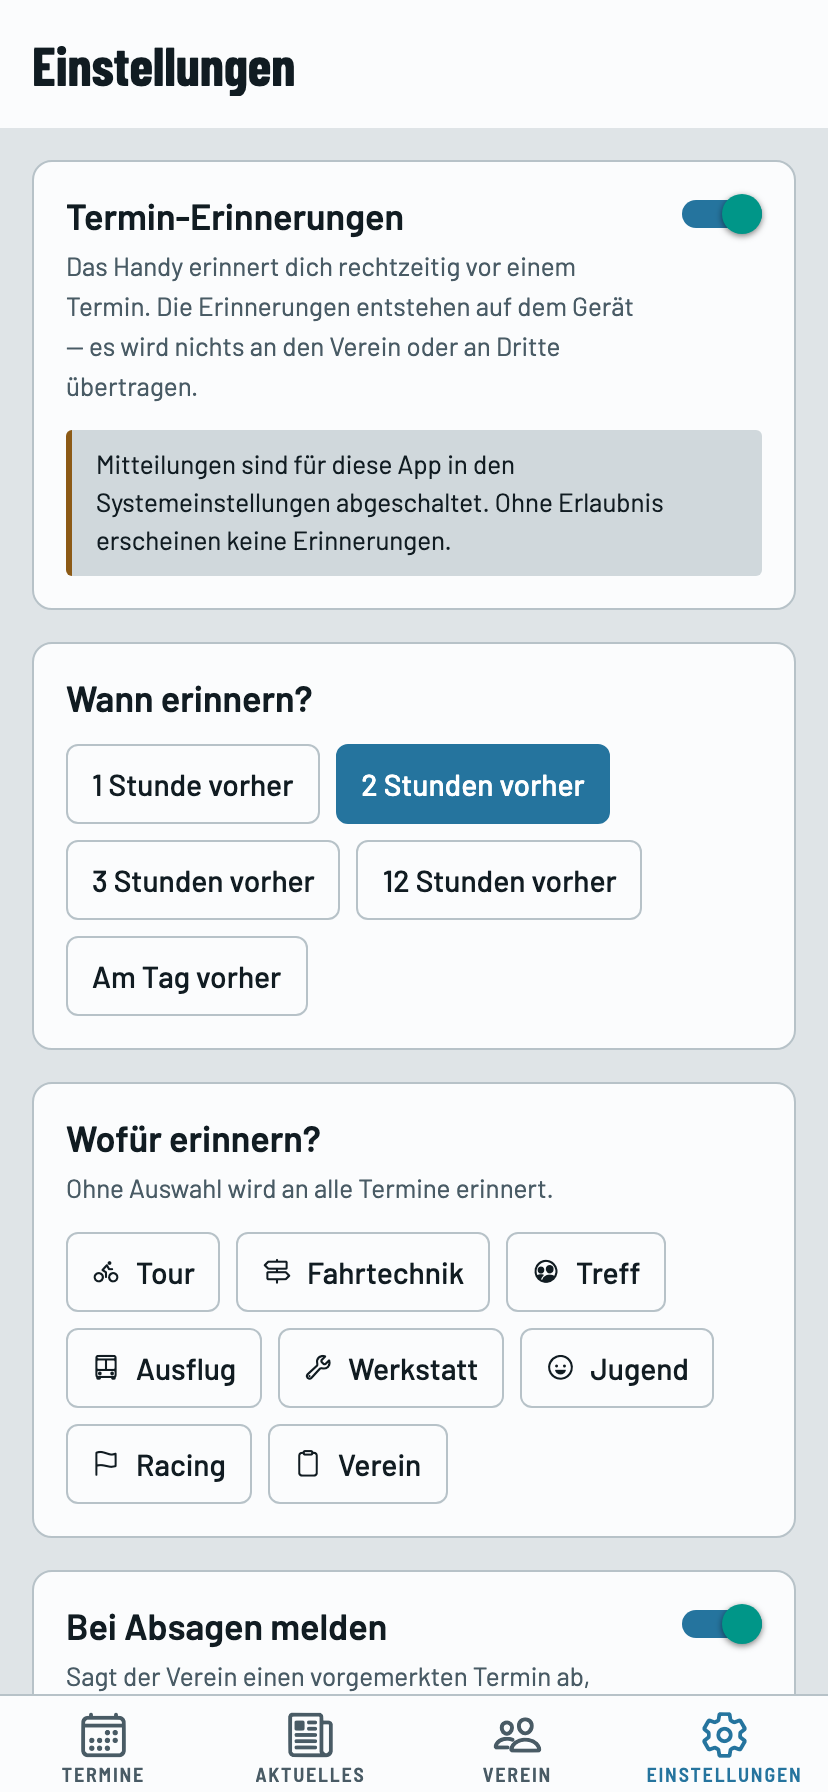
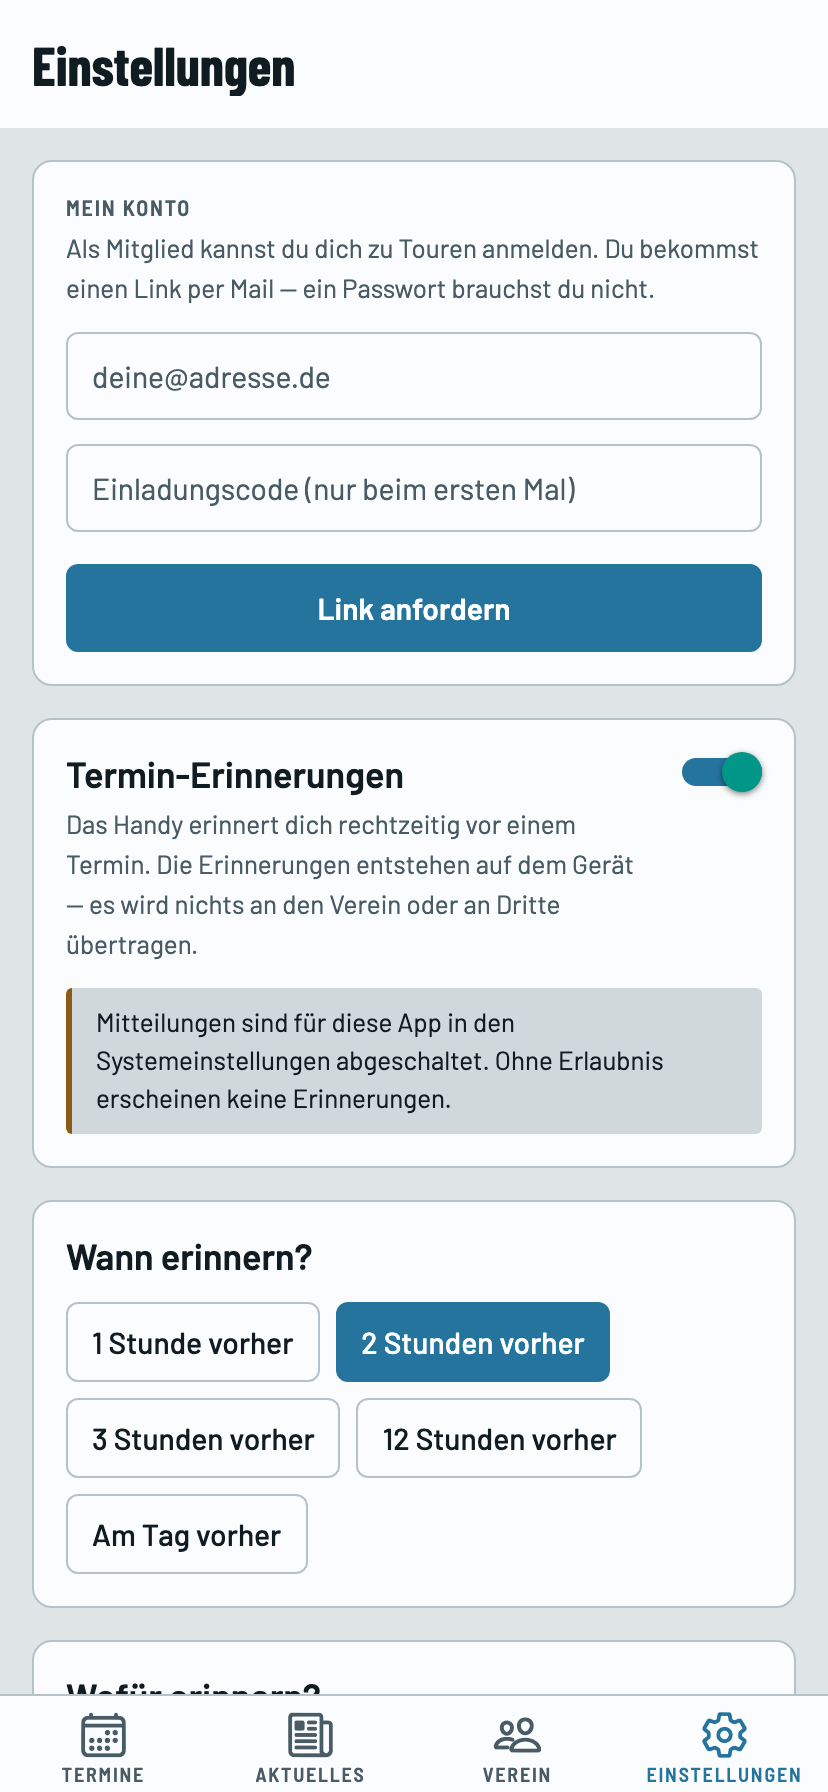
Anmeldebereich in den Einstellungen
Die Anmeldekarte sitzt oben auf dem Einstellungsbildschirm, über den
Erinnerungen. Adresse eingeben, Einladungscode nur beim ersten Mal, Link
per Mail — kein Passwort. Wer sich nie anmeldet, sieht die App wie bisher;
die Karte drängt sich nicht auf und blockiert nichts.

Zwei Fehlerquellen laufen in einer Bannerzeile zusammen: der eigene
Formularfehler und `einloesenFehlgeschlagen` aus dem Kontext. Der eigene
hat Vorrang, weil er auf die Handlung von gerade eben antwortet.

Zwei Funde beim Prüfen, beide gegen die laufende API und die Vorschau
nachgemessen statt vermutet:

1. Der Beispielcode des Plans meinte, ein Fehler beim Anfordern heiße immer
   „Server nicht erreichbar" — die API antworte ja bei jeder Anfrage gleich.
   Das gilt nur für *gültige* Anfragen. Gemessen:

       {"email":""}              → 400 "E-Mail-Adresse fehlt oder ist ungültig."
       {"email":"keine-adresse"} → 400 "E-Mail-Adresse fehlt oder ist ungültig."

   Wer sich vertippt, wäre zum Warten geschickt worden statt zum
   Korrigieren. Ein falscher Rat ist schlimmer als gar keiner. Die
   Zuordnung steht jetzt als reine Rechenlogik in `anfordernFehler.ts` mit
   eigenen Tests, nach Fällen sortiert, die Verschiedenes von der Person
   verlangen: 400 reicht den präziseren Satz der API durch, 429 sagt, dass
   Warten hilft und Weiterprobieren schadet, alles andere ist vorübergehend.

2. `npm run vorschau` meldete `getValueWithKeyAsync is not a function` —
[…]

diff --git a/src/features/konto/AnmeldeKarte.tsx b/src/features/konto/AnmeldeKarte.tsx
@@ -1,0 +1,188 @@
+/**
+ * Der Anmeldebereich in den Einstellungen.
+ *
+ * Bewusst hier und nicht an der Terminansicht: Wer sich nie anmeldet, soll
+ * die App benutzen wie bisher. Die Anmeldung ist ein Zusatz für Mitglieder,
+ * keine Hürde vor dem Kalender.
+ *
+ * Kein Passwort: Die API schickt einen Link an die hinterlegte Adresse. Der
+ * Einladungscode ist nur beim ersten Mal nötig — wer schon ein Konto hat,
+ * gibt bloß seine Adresse ein.
+ *
+ * Zwei Fehlerquellen laufen hier zusammen, aber es gibt nur eine Banner-
+ * Zeile: der eigene Formularfehler (Anfordern schlug fehl) und
+ * `einloesenFehlgeschlagen` aus dem Kontext (der zuletzt angetippte Link
+ * ließ sich nicht einlösen). Ohne Letzteres passierte nach dem Antippen
+ * eines abgelaufenen Links schlicht gar nichts — die Karte blieb einfach
+ * bei „Schau in dein Postfach" stehen.
+ */
+
+import { useRef, useState } from 'react';
+import { StyleSheet, Text, TextInput, View } from 'react-native';
+
+import { beschreibeAnfordernFehler } from '../../konto/anfordernFehler';
+import { useKonto } from '../../konto/KontoContext';
+import { font, fontSize, radius, spacing } from '../../theme';
+import { ActionButton, Banner, Card, Label } from '../../ui/components';
+import { useTheme } from '../../ui/theme';
+
+export function AnmeldeKarte() {
+  const { palette } = useTheme();
+  const { angemeldet, laedt, anmeldungAnfordern, abmelden, zuletztEingeloest, einloesenFehlgeschlagen } =
+    useKonto();
+
+  const [email, setEmail] = useState('');
+  const [code, setCode] = useState('');
+  const [laeuft, setLaeuft] = useState(false);
+  const [angefordert, setAngefordert] = useState(false);
+  const [fehler, setFehler] = useState<string | null>(null);
+
+  // Der Stand von `zuletztEingeloest` beim ersten Einhängen der Karte.
+  // `useRef` merkt sich nur den allerersten Aufrufwert — ändert sich
+  // `zuletztEingeloest` danach, wurde genau während dieser Sitzung der Karte
+  // ein Link eingelöst, und die kurze Bestätigung unten ist angebracht. War
+  // die Anmeldung schon vorher da (Einstellungen frisch geöffnet, längst
+  // angemeldet), bleibt es bei der ruhigen Standardmeldung.
+  const anfangswert = useRef(zuletztEingeloest).current;
+  const geradeEingeloggt = zuletztEingeloest !== null && zuletztEingeloest !== anfangswert;
+
+  if (laedt) return null;
+
+  if (angemeldet) {
+    return (
+      <Card>
+        <Label>Mein Konto</Label>
+        <Text style={[styles.zustand, { color: palette.text }]}>
+          {geradeEingeloggt ? 'Angemeldet.' : 'Du bist angemeldet.'}
+        </Text>
+        <Text style={[styles.hinweis, { color: palette.textMuted }]}>
+          Damit kannst du dich in der Terminansicht zu Touren an- und abmelden.
+        </Text>
+        <View style={styles.knopf}>
+          <ActionButton label="Abmelden" tone="secondary" onPress={() => void abmelden()} />
+        </View>
+      </Card>
+    );
+  }
+
+  async function anfordern() {
+    setFehler(null);
+    setLaeuft(true);
+    try {
+      await anmeldungAnfordern(email.trim(), code.trim() || undefined);
+      setAngefordert(true);
+    } catch (ursache) {
+      // Nicht pauschal „nicht erreichbar": Die API antwortet zwar bei jeder
+      // *gültigen* Anfrage gleich, weist eine ungültige Adresse aber mit 400
+      // und einem eigenen Satz ab. Wer sich vertippt, würde sonst zum Warten
+      // geschickt statt zum Korrigieren. Siehe `anfordernFehler.ts`.
+      setFehler(beschreibeAnfordernFehler(ursache));
+    } finally {
+      setLaeuft(false);
+    }
+  }
+
+  // Der eigene Formularfehler antwortet auf die Handlung von gerade eben und
+  // hat deshalb Vorrang vor einem möglicherweise älteren, fehlgeschlagenen
+  // Einlöseversuch. Nie beide gleichzeitig zeigen.
+  const anzeigeFehler = fehler ?? einloesenFehlgeschlagen;
+
+  return (
+    <Card>
+      <Label>Mein Konto</Label>
+
+      {anzeigeFehler ? (
+        <View style={styles.banner}>
+          <Banner tone="danger" text={anzeigeFehler} />
+        </View>
+      ) : null}
+
+      {angefordert ? (
+        <>
+          <Text style={[styles.zustand, { color: palette.text }]}>Schau in dein Postfach.</Text>
+          <Text style={[styles.hinweis, { color: palette.textMuted }]}>
+            Wenn die Angaben stimmen, ist eine Mail an {email.trim()} unterwegs. Tipp den Link
+            darin an — er gilt 15 Minuten.
+          </Text>
+          <View style={styles.knopf}>
+            <ActionButton
+              label="Nochmal versuchen"
+              tone="secondary"
+              onPress={() => setAngefordert(false)}
+            />
+          </View>
+        </>
+      ) : (
+        <>
+          <Text style={[styles.hinweis, { color: palette.textMuted }]}>
+            Als Mitglied kannst du dich zu Touren anmelden. Du bekommst einen Link per Mail —
+            ein Passwort brauchst du nicht.
+          </Text>
+
+          <TextInput
+            value={email}
+            onChangeText={setEmail}
+            placeholder="deine@adresse.de"
+            placeholderTextColor={palette.textMuted}
+            autoCapitalize="none"
+            autoCorrect={false}
+            keyboardType="email-address"
+            style={[
+              styles.feld,
+              { color: palette.text, borderColor: palette.border, backgroundColor: palette.surface },
+            ]}
+          />
+
+          <TextInput
+            value={code}
+            onChangeText={setCode}
+            placeholder="Einladungscode (nur beim ersten Mal)"
+            placeholderTextColor={palette.textMuted}
+            autoCapitalize="none"
+            autoCorrect={false}
+            style={[
+              styles.feld,
+              { color: palette.text, borderColor: palette.border, backgroundColor: palette.surface },
+            ]}
+          />
+
+          <View style={styles.knopf}>
+            <ActionButton
+              label={laeuft ? 'Wird angefordert …' : 'Link anfordern'}
+              onPress={() => void anfordern()}
+            />
+          </View>
+        </>
+      )}
+    </Card>
+  );
+}
+
+const styles = StyleSheet.create({
+  zustand: {
+    fontFamily: font.semibold,
+    fontSize: fontSize.lg,
+    marginTop: spacing.sm,
+  },
+  hinweis: {
+    fontFamily: font.regular,
+    fontSize: fontSize.sm,
+    lineHeight: 20,
+    marginTop: spacing.xs,
+  },
+  feld: {
+    borderRadius: radius.md,
+    borderWidth: StyleSheet.hairlineWidth,
+    fontFamily: font.regular,
+    fontSize: fontSize.md,
+    marginTop: spacing.md,
+    minHeight: 44,
+    paddingHorizontal: spacing.md,
+  },
+  banner: {
+    marginTop: spacing.md,
+  },
+  knopf: {
+    marginTop: spacing.lg,
+  },
+});

diff --git a/src/konto/anfordernFehler.ts b/src/konto/anfordernFehler.ts
@@ -1,0 +1,47 @@
+/**
+ * Den Fehler beim Anfordern eines Anmeldelinks in einen deutschen,
+ * verständlichen Satz übersetzen.
+ *
+ * Das Naheliegende wäre, hier immer „nicht erreichbar" zu sagen — die API
+ * antwortet ja bei jeder gültigen Anfrage gleich, egal ob die Adresse
+ * bekannt ist. Das gilt aber nur für **gültige** Anfragen. Gegen die
+ * laufende API nachgemessen:
+ *
+ *     {"email":""}              → 400 "E-Mail-Adresse fehlt oder ist ungültig."
+ *     {"email":"keine-adresse"} → 400 "E-Mail-Adresse fehlt oder ist ungültig."
+ *
+ * Wer sich vertippt, bekäme also „Der Verein ist gerade nicht erreichbar"
+ * zu lesen und wartet — obwohl Warten nichts hilft und ein Blick auf das
+ * eigene Eingabefeld alles. Ein falscher Rat ist schlimmer als gar keiner.
+ *
+ * Die Fälle unterscheiden sich darin, **was die Person als Nächstes tun
+ * soll** — danach ist diese Zuordnung gebaut, nicht nach Statuscodes:
+ *
+ * - **400** — an der Eingabe liegt es. Der Text der API ist bereits deutsch
+ *   und genauer als alles, was hier zu erfinden wäre; deshalb wird er
+ *   durchgereicht, statt ihn zu ersetzen.
+ * - **429** — zu oft hintereinander versucht (`ipbegrenzung.ts` und Caddy
+ *   davor). Hier hilft eine Minute Geduld, und das gehört gesagt: Sonst
+ *   tippt jemand weiter und macht es schlimmer.
+ * - **alles andere**, insbesondere Status 0 („gar nicht angekommen", siehe
+ *   `api.ts`) — der Server oder das eigene Netz. Später noch einmal.
+ *
+ * Bewusst ohne React Native, damit sich die Zuordnung ohne Gerät prüfen
+ * lässt — dasselbe Muster wie `einloesenFehler.ts` daneben.
+ */
+
+import { ApiFehler } from '../data/api';
+
+export function beschreibeAnfordernFehler(fehler: unknown): string {
+  if (fehler instanceof ApiFehler) {
+    if (fehler.status === 400) {
+      // Der Satz der API ist präziser als eine eigene Erfindung — aber nur,
+      // wenn wirklich einer ankam. Sonst der allgemeine Hinweis.
+      return fehler.message.trim() || 'Prüf deine E-Mail-Adresse.';
+    }
+    if (fehler.status === 429) {
+      return 'Zu viele Versuche hintereinander. Warte eine Minute und probier es dann noch einmal.';
+    }
+  }
+  return 'Der Verein ist gerade nicht erreichbar. Versuch es später noch einmal.';
+}

diff --git a/src/data/secureTokenSpeicher.ts b/src/data/secureTokenSpeicher.ts
@@ -10,16 +10,46 @@
  * Rechenlogik ohne React Native, damit sie ohne Gerät prüfbar bleibt; die
  * Anbindung ans Betriebssystem steht daneben, ungetestet, weil sie nur ein
  * dünner Aufruf der Plattform-API ist.
+ *
+ * **Im Browser gibt es keinen Schlüsselbund.** `npm run vorschau` baut und
+ * rendert die Web-Fassung, um Renderfehler zu finden — dort scheiterte jeder
+ * Aufruf mit `getValueWithKeyAsync is not a function`, weil expo-secure-store
+ * im Browser keine Entsprechung hat. Ohne die Prüfung unten steht bei jedem
+ * Vorschau-Lauf ein Fehler, und ein Werkzeug, das immer meckert, meldet bald
+ * nichts mehr, worauf jemand hört.
+ *
+ * Die Antwort ist bewusst **nicht**, auf `localStorage` auszuweichen: Dort
+ * läge ein Token, das sechzig Tage gilt, im Klartext und für jedes Skript auf
+ * der Seite lesbar. Lieber gar keine Anmeldung als eine unsichere. Im Browser
+ * meldet dieser Speicher deshalb ehrlich „nichts gespeichert" — die App
+ * bleibt vollständig benutzbar, nur eben ohne Konto, und genau das ist im
+ * Vorschau-Werkzeug auch richtig. Die echten Ziele sind iOS und Android.
  */
 
+import { Platform } from 'react-native';
 import * as SecureStore from 'expo-secure-store';
 
 import type { TokenSpeicher } from './tokenSpeicher';
 
 const SCHLUESSEL = 'mtbie.erneuerung';
 
-export const secureTokenSpeicher: TokenSpeicher = {
+/** Kein Schlüsselbund vorhanden: nimmt nichts an und gibt nichts heraus. */
+const ohneSchluesselbund: TokenSpeicher = {
+  lies: async () => null,
+  schreib: async () => {
+    console.warn(
+      'Kein Schlüsselbund auf dieser Plattform — die Anmeldung wird nicht gespeichert. ' +
+        'Das ist im Browser normal; auf iOS und Android darf es nicht vorkommen.',
+    );
+  },
+  loesche: async () => {},
+};
+
+const mitSchluesselbund: TokenSpeicher = {
   lies: () => SecureStore.getItemAsync(SCHLUESSEL),
   schreib: (token) => SecureStore.setItemAsync(SCHLUESSEL, token),
   loesche: () => SecureStore.deleteItemAsync(SCHLUESSEL),
 };
+
+export const secureTokenSpeicher: TokenSpeicher =
+  Platform.OS === 'web' ? ohneSchluesselbund : mitSchluesselbund;

diff --git a/tests/anfordernFehler.test.ts b/tests/anfordernFehler.test.ts
@@ -1,0 +1,43 @@
+import { describe, expect, it } from 'vitest';
+
+import { ApiFehler } from '../src/data/api';
+import { beschreibeAnfordernFehler } from '../src/konto/anfordernFehler';
+
+describe('beschreibeAnfordernFehler', () => {
+  it('reicht bei einer ungültigen Adresse den Satz der API durch, statt ihn zu ersetzen', () => {
+    // Wortlaut wie gegen die laufende API gemessen: {"email":"keine-adresse"}
+    // antwortet mit 400 und genau diesem Text.
+    expect(
+      beschreibeAnfordernFehler(new ApiFehler(400, 'E-Mail-Adresse fehlt oder ist ungültig.')),
+    ).toBe('E-Mail-Adresse fehlt oder ist ungültig.');
+  });
+
+  it('sagt bei einer Ratenbegrenzung, dass Warten hilft — nicht weiterprobieren', () => {
+    expect(beschreibeAnfordernFehler(new ApiFehler(429, 'Zu viele Versuche.'))).toBe(
+      'Zu viele Versuche hintereinander. Warte eine Minute und probier es dann noch einmal.',
+    );
+  });
+
+  it('erklärt einen Netzfehler (Status 0) als vorübergehend', () => {
+    expect(beschreibeAnfordernFehler(new ApiFehler(0, 'Keine Verbindung zum Server.'))).toBe(
+      'Der Verein ist gerade nicht erreichbar. Versuch es später noch einmal.',
+    );
+  });
+
+  it('erklärt einen Serverfehler (Status 500) als vorübergehend', () => {
+    expect(beschreibeAnfordernFehler(new ApiFehler(500, 'Da ist etwas schiefgegangen.'))).toBe(
+      'Der Verein ist gerade nicht erreichbar. Versuch es später noch einmal.',
+    );
+  });
+
+  it('erfindet einen eigenen Hinweis, wenn ein 400 ohne Text ankommt', () => {
+    // Sonst stünde eine leere Fehlerzeile da — sichtbar, aber ohne Aussage.
+    expect(beschreibeAnfordernFehler(new ApiFehler(400, '   '))).toBe('Prüf deine E-Mail-Adresse.');
+  });
+
+  it('fällt bei einem unerwarteten Fehlertyp auf den vorübergehenden Text zurück', () => {
+    expect(beschreibeAnfordernFehler(new Error('irgendwas'))).toBe(
+      'Der Verein ist gerade nicht erreichbar. Versuch es später noch einmal.',
+    );
+  });
+});

diff --git a/app/(tabs)/einstellungen.tsx b/app/(tabs)/einstellungen.tsx
@@ -9,6 +9,7 @@ import { useSafeAreaInsets } from 'react-native-safe-area-context';
 import { useAppData } from '../../src/data/AppDataContext';
 import type { EventCategory } from '../../src/domain/types';
 import { formatAge } from '../../src/features/events/format';
+import { AnmeldeKarte } from '../../src/features/konto/AnmeldeKarte';
 import { useNotifications } from '../../src/notifications/NotificationContext';
 import { LEAD_TIME_OPTIONS } from '../../src/notifications/settings';
 import { categoryDisplay, font, fontSize, spacing } from '../../src/theme';
@@ -36,6 +37,8 @@ export default function EinstellungenScreen() {
 
   return (
     <ScrollView contentContainerStyle={[styles.inhalt, { paddingBottom: insets.bottom + spacing.xxl }]}>
+      <AnmeldeKarte />
+
       <Card>
         <View style={styles.schalterZeile}>
           <View style={styles.schalterText}>
